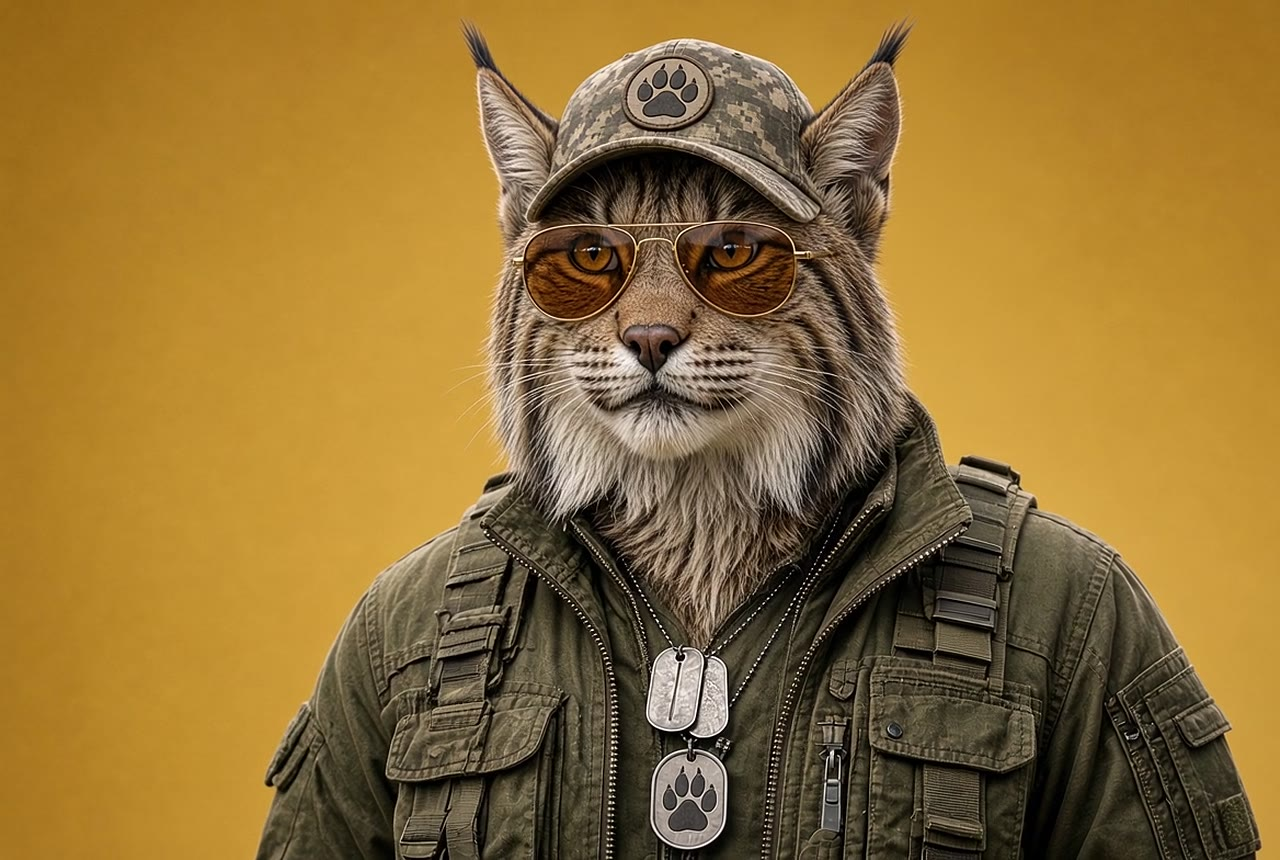
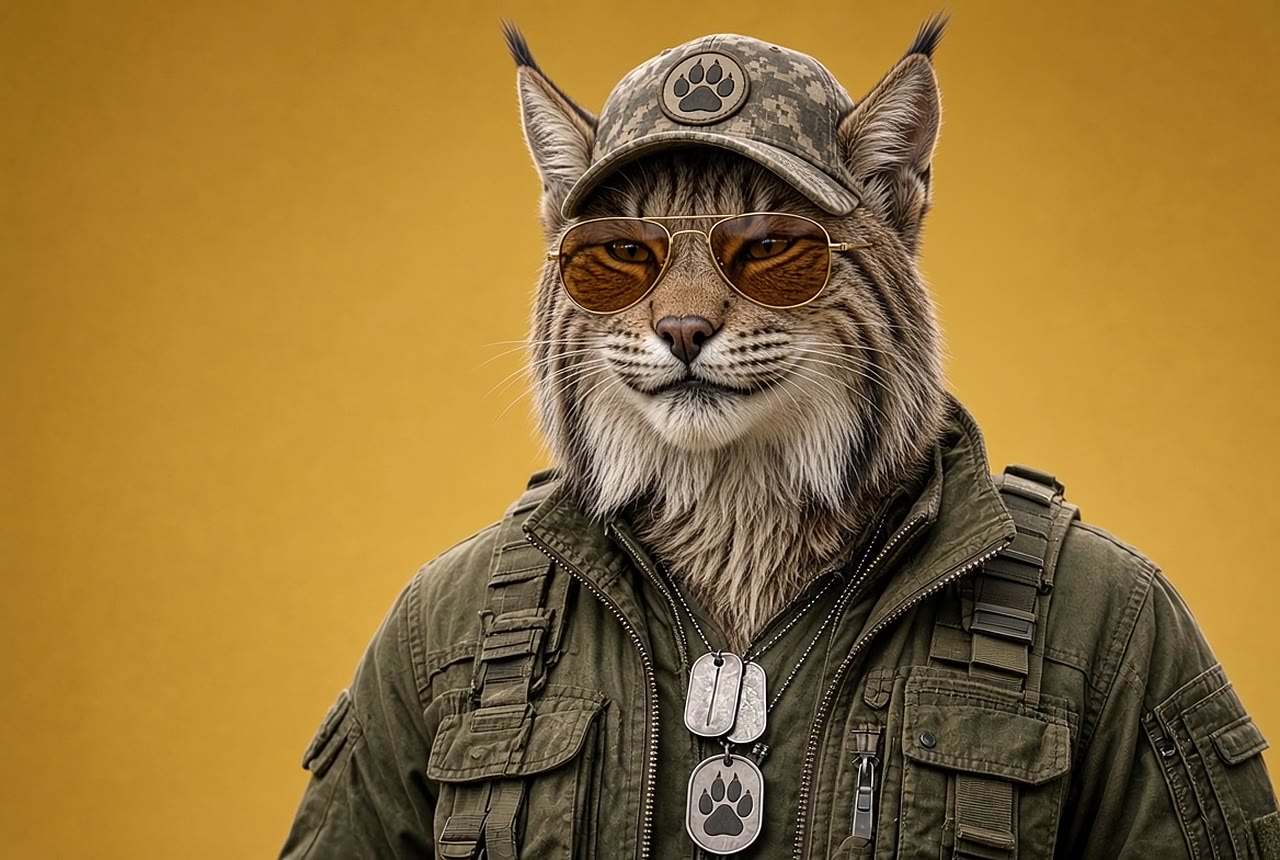
Film: scrub only the thumbs-up, keep Ray clear of the text
Cut just the 2 s of motion at 12 fps and hold the first and last frame
either side, so nudging the wheel at the top no longer re-scrubs the clip's
idle sway. While frames load, hold the last loaded frame instead of jumping
ahead. On wide screens fit the picture into the space right of the text
column, bottom-aligned, with its edges feathered into the backdrop; tall
screens keep the cover crop.

Claude-Session: https://claude.ai/code/session_01NoynmY9F21yKYSdF1R9y6s

diff --git a/public/js/film.js b/public/js/film.js
@@ -26,8 +26,11 @@ if (film && !reduced) {
     items: [...el.querySelectorAll('[data-stagger] > *')],
   }));
   const small = matchMedia('(max-width: 48rem)').matches;
-  const set = JSON.parse(film.dataset[small ? 'mobile' : 'desktop']); // { src, count, per, w, h }
-  const total = set.count * set.per;
+  const set = JSON.parse(film.dataset[small ? 'mobile' : 'desktop']); // { src, count, per, n, w, h, from, to }
+  const total = set.n || set.count * set.per;
+  // The clip only moves between these two points of the scroll; Ray holds still either side, so
+  // nudging the wheel at the top doesn't make him twitch.
+  const moveFrom = set.from ?? 0.3; const moveTo = set.to ?? 0.8;
   const frames = new Array(total).fill(null); // one ImageBitmap per frame, sliced once a sprite lands
   const ctx = canvas.getContext('2d', { alpha: false });
   ctx.imageSmoothingQuality = 'medium';
@@ -63,19 +66,22 @@ if (film && !reduced) {
   // Draw frame f (a float: adjacent frames are cross-faded) with object-fit: cover, keeping the
   // right-hand side, where Ray is, on screen. The canvas backing store is capped so very large or
   // high-density screens don't push millions of extra pixels through every tick.
-  let W = 0; let H = 0; let dpr = 1;
+  let W = 0; let H = 0; let dpr = 1; let textRight = 0;
+  const scenesEl = film.querySelector('.film-scenes');
   function size() {
     W = stage.clientWidth; H = stage.clientHeight;
+    const sc = scenesEl.getBoundingClientRect();
+    textRight = sc.left + Math.min(sc.width, 576); // the scenes are at most 36rem wide
     dpr = Math.min(devicePixelRatio || 1, 1.5, Math.sqrt(2.4e6 / Math.max(1, W * H)));
     canvas.width = Math.round(W * dpr); canvas.height = Math.round(H * dpr);
     canvas.style.width = `${W}px`; canvas.style.height = `${H}px`;
     dirty = true;
   }
+  // While frames are still arriving, hold the last loaded frame before the wanted one rather than
+  // jumping ahead to whatever happens to have landed.
   function nearestLoaded(n) {
-    for (let d = 0; d < total; d++) {
-      if (frames[n - d]) return n - d;
-      if (frames[n + d]) return n + d;
-    }
+    for (let d = 0; d <= n; d++) if (frames[n - d]) return n - d;
+    for (let d = 1; n + d < total; d++) if (frames[n + d]) return n + d;
     return -1;
   }
   function blit(n, alpha, dx, dy, dw, dh) {
@@ -85,18 +91,47 @@ if (film && !reduced) {
     else ctx.drawImage(fr, dx, dy, dw, dh);
     ctx.globalAlpha = 1;
   }
+  // The frames' own backdrop, so the stage can extend it where the picture doesn't reach.
+  const BACKDROP = '#a26c17';
+  // Where the picture doesn't reach the stage's edge, melt its left and top edges into the backdrop
+  // so there is no hard rectangle.
+  function feather(dx, dy, dw, dh) {
+    const fx = Math.min(220, dw * 0.22); const fy = Math.min(160, dh * 0.2);
+    if (dx > -1) {
+      const g = ctx.createLinearGradient(dx, 0, dx + fx, 0);
+      g.addColorStop(0, BACKDROP); g.addColorStop(1, 'rgba(162, 108, 23, 0)');
+      ctx.fillStyle = g; ctx.fillRect(dx - 1, 0, fx + 1, H);
+    }
+    if (dy > -1) {
+      const g = ctx.createLinearGradient(0, dy, 0, dy + fy);
+      g.addColorStop(0, BACKDROP); g.addColorStop(1, 'rgba(162, 108, 23, 0)');
+      ctx.fillStyle = g; ctx.fillRect(0, dy - 1, W, fy + 1);
+    }
+  }
   function draw(f) {
     const i = nearestLoaded(Math.floor(f));
     if (i < 0) return;
     const j = frames[i + 1] && i + 1 <= Math.ceil(f) ? i + 1 : i;
     const a = j === i ? 0 : f - Math.floor(f);
-    const scale = Math.max(W / set.w, H / set.h);
+    // Tall screens: cover the width, cropping so Ray (right of centre in the frame) stays in view.
+    // Wide screens: fit Ray into the space to the right of the text column, bottom-aligned, so the
+    // copy and his thumb never overlap; the stage's own mustard fills the gap above him.
+    let scale; let dx; let dy;
+    if (W / H < set.w / set.h) {
+      scale = Math.max(W / set.w, H / set.h);
+      dx = (W - set.w * scale) * (small ? 0.68 : 0.6); dy = (H - set.h * scale) * 0.4;
+    } else {
+      const avail = W - textRight - 16;
+      scale = Math.max(0.72 * (H / set.h), Math.min(H / set.h, avail / (0.72 * set.w)));
+      dx = W - set.w * scale; dy = Math.min(0, H - set.h * scale) * 0.4 + Math.max(0, H - set.h * scale);
+    }
     const dw = set.w * scale; const dh = set.h * scale;
-    const focus = small ? 0.68 : 0.6; // keep Ray (right of centre) in frame when cropping
-    const dx = (W - dw) * focus + par.x; const dy = (H - dh) * 0.4 + par.y;
+    dx += par.x; dy += par.y;
     ctx.setTransform(dpr, 0, 0, dpr, 0, 0);
+    ctx.fillStyle = BACKDROP; ctx.fillRect(0, 0, W, H);
     blit(i, 1, dx, dy, dw, dh);
     if (a > 0.02) blit(j, a, dx, dy, dw, dh);
+    feather(dx, dy, dw, dh);
     if (poster && !poster.hidden) poster.hidden = true;
   }
 
@@ -131,11 +166,11 @@ if (film && !reduced) {
   }
   function tick() {
     raf = 0;
-    const k = 0.16;
+    const k = 0.24;
     const prevCur = cur;
     cur = cur < 0 ? target : cur + (target - cur) * k;
     par.x += (par.tx - par.x) * 0.08; par.y += (par.ty - par.y) * 0.08;
-    const f = cur * (total - 1);
+    const f = clamp((cur - moveFrom) / (moveTo - moveFrom), 0, 1) * (total - 1);
     if (dirty || Math.abs(cur - prevCur) > 0.0002 || Math.abs(par.tx - par.x) > 0.2 || Math.abs(par.ty - par.y) > 0.2) {
       draw(f);
       placeScenes(cur);
@@ -153,7 +188,7 @@ if (film && !reduced) {
   size();
   target = progress();
   cur = target;
-  draw(cur * (total - 1));
+  draw(clamp((cur - moveFrom) / (moveTo - moveFrom), 0, 1) * (total - 1));
   placeScenes(cur);
 }
 

diff --git a/public/css/site.css b/public/css/site.css
@@ -825,9 +825,10 @@ input[type='range']::-moz-range-track { background: var(--line-strong); }
 @media (max-width: 70rem) and (min-width: 56.01rem) { .site-nav a:not(.btn) { padding: 0.5rem 0.55rem; } .site-nav { gap: 0.6rem; } }
 
 /* ---- The film: Ray scrubbed by scroll, scenes over him ---------------------- */
-.film { position: relative; height: 260vh; background: #a56e16; color: #fff; }
-.film-stage { position: sticky; top: 0; height: 100vh; height: 100svh; overflow: hidden; background: #a56e16; contain: paint; }
-.film-poster { position: absolute; inset: 0; width: 100%; height: 100%; object-fit: cover; object-position: 60% 40%; }
+.film { position: relative; height: 260vh; background: #a26c17; color: #fff; }
+.film-stage { position: sticky; top: 0; height: 100vh; height: 100svh; overflow: hidden; background: #a26c17; contain: paint; }
+.film-poster { position: absolute; inset: 0; width: 100%; height: 100%; object-fit: contain; object-position: 100% 100%; }
+@media (max-aspect-ratio: 1280 / 860) { .film-poster { object-fit: cover; object-position: 60% 40%; } }
 .film-canvas { position: absolute; inset: 0; display: block; transform: translateZ(0); contain: strict; }
 .film-shade { position: absolute; inset: 0; pointer-events: none; background: linear-gradient(90deg, rgba(40, 24, 0, 0.72) 0%, rgba(40, 24, 0, 0.42) 38%, rgba(40, 24, 0, 0) 68%), linear-gradient(180deg, rgba(0, 0, 0, 0.35) 0%, transparent 22%, transparent 75%, rgba(0, 0, 0, 0.35) 100%); }
 .film-scenes { position: absolute; inset: 0; width: min(100% - 2rem, 76rem); margin-inline: auto; display: grid; padding-top: calc(var(--header-h) + 0.5rem); }

diff --git a/lib/pages-main.js b/lib/pages-main.js
@@ -48,7 +48,7 @@ export function home(ctx) {
   ];
 
   const body = `
-<div class="film" data-film data-desktop='{"src":"${esc(ctx.asset('/img/film/d-%02d.webp'))}","count":3,"per":12,"w":1280,"h":860}' data-mobile='{"src":"${esc(ctx.asset('/img/film/m-%02d.webp'))}","count":3,"per":12,"w":640,"h":430}'>
+<div class="film" data-film data-desktop='{"src":"${esc(ctx.asset('/img/film/d-%02d.webp'))}","count":2,"per":12,"n":24,"w":1280,"h":860,"from":0.32,"to":0.78}' data-mobile='{"src":"${esc(ctx.asset('/img/film/m-%02d.webp'))}","count":2,"per":12,"n":24,"w":640,"h":430,"from":0.32,"to":0.78}'>
   <div class="film-stage">
     <img class="film-poster" src="${esc(ctx.asset('/img/film/first.jpg'))}" width="1280" height="860" alt="Ray, a lynx in a camo cap and aviators, on a mustard backdrop" fetchpriority="high">
     <canvas class="film-canvas" aria-hidden="true"></canvas>

diff --git a/README.md b/README.md
@@ -51,10 +51,10 @@ This keeps every lead in SQLite, with the `/admin` page (list, status, delete, C
 
 ## The home page film
 
-The home page opens on a pinned stage (`public/js/film.js`): the headline and the Roof Dial card on the left, Ray on the right. As you scroll, a short clip of Ray giving a thumbs-up is scrubbed frame by frame from a sprite (`public/img/film/d-*.webp`, 36 frames at 1280px for desktop; `m-*.webp` at 640px for phones) while the three promises slide in; then the page continues. On phones the dial card sits directly under the film instead, reached by the "Price up my roof" button. Sprites load progressively and `first.jpg` is the poster until they arrive. No JavaScript or reduced motion shows the poster with everything stacked. Below the film: four path cards, the pinned "watch the bill drop" counter, the Planet pledge, three installers and four FAQs.
+The home page opens on a pinned stage (`public/js/film.js`): the headline and the Roof Dial card on the left, Ray on the right. As you scroll, Ray's thumbs-up is scrubbed frame by frame from a sprite (`public/img/film/d-*.webp`, 24 frames at 1280px for desktop; `m-*.webp` at 640px for phones) while the three promises slide in; then the page continues. Only the motion itself is scrubbed (between 32% and 78% of the pinned scroll, set by `from`/`to` in the sprite JSON), and Ray holds still either side, so nudging the wheel never makes him twitch. On wide screens the picture is fitted into the space right of the text so he and the copy never overlap; on tall screens it covers the width. On phones the dial card sits directly under the film instead, reached by the "Price up my roof" button. Sprites load progressively and `first.jpg` is the poster until they arrive. No JavaScript or reduced motion shows the poster with everything stacked. Below the film: four path cards, the pinned "watch the bill drop" counter, the Planet pledge, three installers and four FAQs.
 
-To re-cut the frames from a new clip (same mustard backdrop, Ray on the right, the action between 2.4 s and 6.9 s):
-`ffmpeg -ss 2.4 -t 4.5 -i ray.mp4 -vf "fps=8,scale=1280:-2:flags=lanczos,unsharp=5:5:0.45:5:5:0.0,tile=1x12" -f image2 -c:v libwebp -quality 60 public/img/film/d-%02d.webp`, the same with `scale=640:-2` for `m-%02d.webp`, and `first.jpg` from the first frame of the range. Then update `count`, `w` and `h` in the `data-desktop` / `data-mobile` JSON in `lib/pages-main.js`. A 1080p or 4K source clip would make the hero properly sharp; the current one is 1168×784. The quote flow keeps a face crop, `public/img/ray-face.jpg`, as Ray's avatar.
+To re-cut the frames from a new clip (same mustard backdrop, Ray on the right; cut only the seconds where he actually moves, here 4.2 s to 6.2 s, because scrubbing an AI clip's idle sway looks like jitter):
+`ffmpeg -ss 4.2 -t 2.0 -i ray.mp4 -vf "fps=12,scale=1280:-2:flags=lanczos,unsharp=5:5:0.45:5:5:0.0,tile=1x12" -f image2 -c:v libwebp -quality 60 public/img/film/d-%02d.webp`, the same with `scale=640:-2` for `m-%02d.webp`, and `first.jpg` from the first frame of the range. Then update `count`, `n` (frames), `w` and `h` in the `data-desktop` / `data-mobile` JSON in `lib/pages-main.js`. A 1080p or 4K source clip would make the hero properly sharp; the current one is 1168×784. The quote flow keeps a face crop, `public/img/ray-face.jpg`, as Ray's avatar.
 
 ## Deploy to Netlify
 
